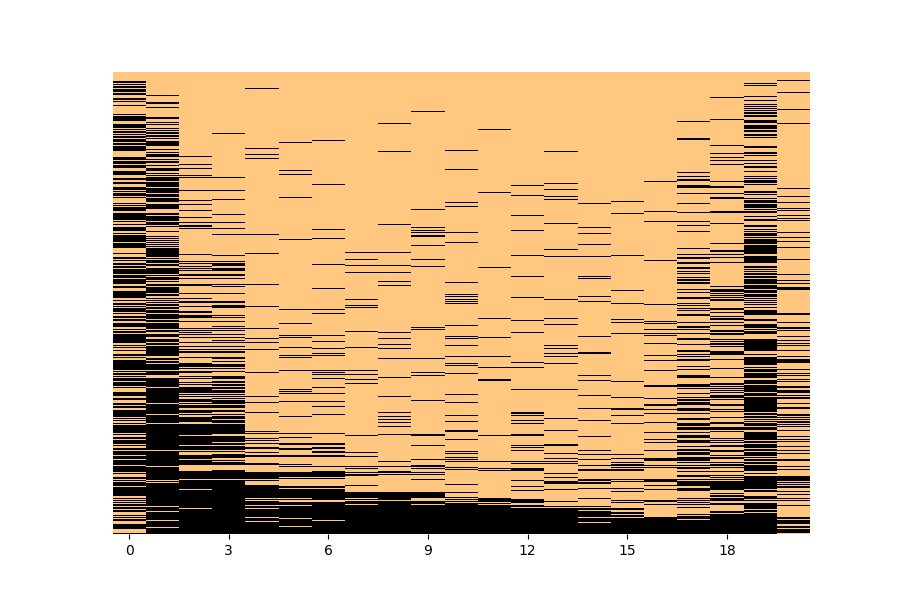
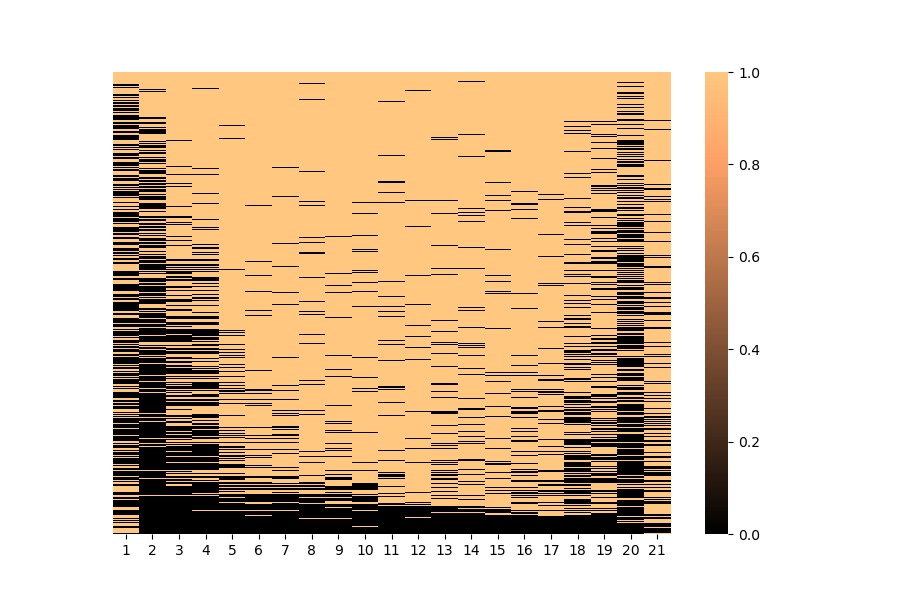
heatmap

diff --git a/utils/heatmap.py b/utils/heatmap.py
@@ -1,6 +1,7 @@
 import random
 import seaborn as sns
 import matplotlib.pyplot as plt
+import numpy as np
 
 
 def get_random_reads_for_heatmap(reads2plot, total_reads_num, patterns):
@@ -19,15 +20,15 @@ def get_random_reads_for_heatmap(reads2plot, total_reads_num, patterns):
     return sorted_reads
 
 
-def heatmap(data, color):
+def heatmap(data, color, xrange):
     plt.close("all")
     fig, ax = plt.subplots(figsize=(9, 6))
     sns.heatmap(
         data,
         annot=False,
-        xticklabels=3,
+        xticklabels=np.arange(1,xrange+1,1),
         yticklabels=False,
-        cbar=False,
+        cbar=True,
         fmt="d",
         cmap=color,
         linewidths=0,
@@ -38,4 +39,5 @@ def heatmap(data, color):
 
 def generate_heatmap(reads2plot, total_reads_num, patterns, color="copper"):
     data = get_random_reads_for_heatmap(reads2plot, total_reads_num, patterns)
-    return heatmap(data=data, color=color)
+    xaxisRange = len(patterns[0])
+    return heatmap(data=data, color=color, xrange=xaxisRange)
